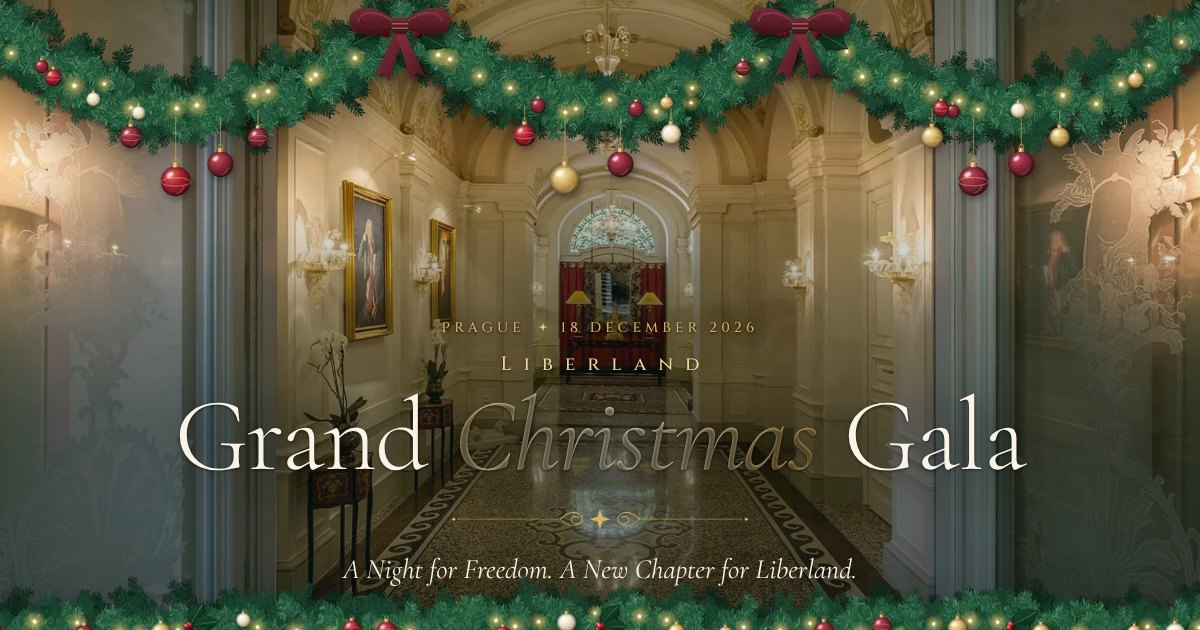
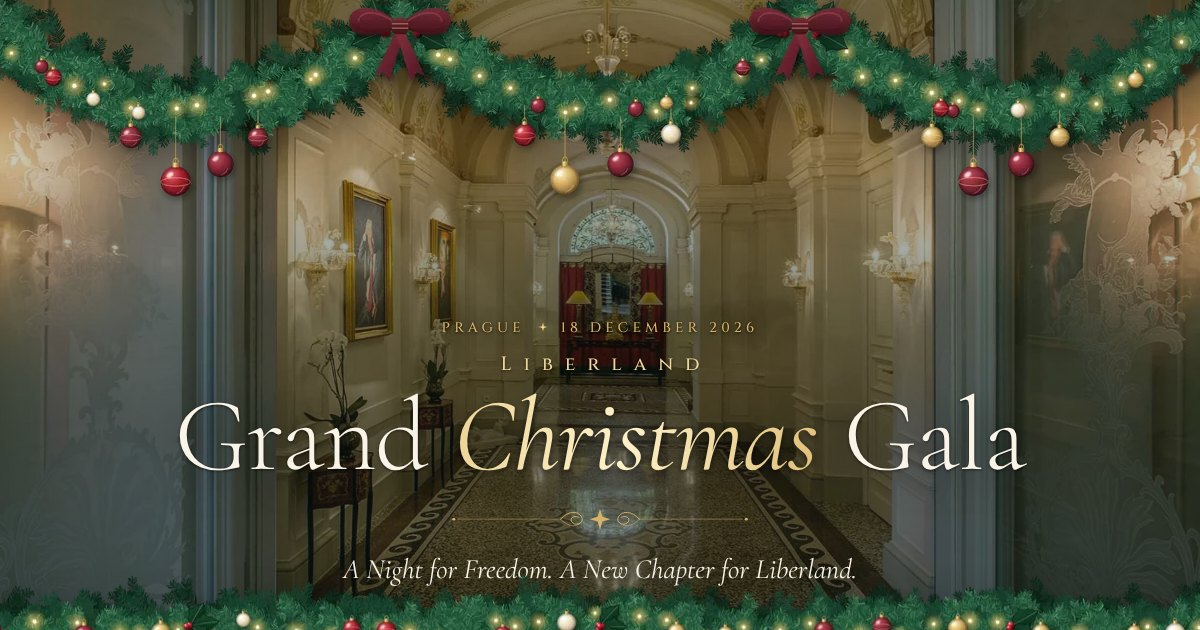
Gala hero: darker veil so the text reads clearly
- Overall 30% evergreen veil and stronger shading behind the title
- "Christmas" keeps its gold: drop-shadow filter instead of a text-shadow
  that was painting over the gradient-clipped letters; brighter gold stops
- Phone: hero text starts below the hanging baubles

Claude-Session: https://claude.ai/code/session_01VRJ32JBGxtXs7n2jmrhcDJ

Changed region(s): [[0.0, 0.1508, 0.8325, 0.5127], [0.8633, 0.1508, 1.0, 0.4825], [0.37, 0.6333, 0.6783, 0.754]]

diff --git a/christmas-gala/src/styles/gala.css b/christmas-gala/src/styles/gala.css
@@ -160,9 +160,10 @@ p { margin: 0; }
   position: absolute; inset: 0; z-index: -1; pointer-events: none;
   background:
     linear-gradient(180deg, rgba(11, 29, 23, 0.55) 0%, rgba(11, 29, 23, 0) 26%),
-    linear-gradient(0deg, rgba(11, 29, 23, 0.95) 0%, rgba(11, 29, 23, 0.82) 34%, rgba(11, 29, 23, 0.45) 52%, rgba(11, 29, 23, 0.08) 68%, rgba(11, 29, 23, 0) 76%),
+    linear-gradient(0deg, rgba(11, 29, 23, 0.95) 0%, rgba(11, 29, 23, 0.86) 34%, rgba(11, 29, 23, 0.6) 52%, rgba(11, 29, 23, 0.22) 68%, rgba(11, 29, 23, 0) 80%),
     radial-gradient(120% 80% at 50% 100%, rgba(118, 43, 54, 0.35), transparent 60%),
-    radial-gradient(44% 30% at 50% 46%, rgba(11, 29, 23, 0.62), transparent 78%);
+    radial-gradient(50% 34% at 50% 46%, rgba(11, 29, 23, 0.7), transparent 78%),
+    linear-gradient(rgba(11, 29, 23, 0.3), rgba(11, 29, 23, 0.3));
 }
 .hero .hero-wreath { position: absolute; left: 50%; top: 46%; width: min(760px, 92vw); transform: translate(-50%, -50%); opacity: 0.9; }
 .hero .hero-garland { position: absolute; left: 0; right: 0; top: 54px; z-index: 1; }
@@ -179,8 +180,9 @@ p { margin: 0; }
 .hero-grand { display: block; margin-top: 14px; font: 300 clamp(58px, 9.4vw, 148px)/0.92 var(--f-display); letter-spacing: -0.015em; }
 .hero-grand em {
   font-style: italic; font-weight: 400;
-  background: linear-gradient(100deg, #e9cd8c 0%, #fff1c9 22%, #d8b36a 44%, #b8924f 60%, #f6dfa6 80%, #d8b36a 100%);
+  background: linear-gradient(100deg, #ecd294 0%, #fff1c9 22%, #e3c37f 44%, #d6b46c 60%, #f6dfa6 80%, #e3c37f 100%);
   background-size: 220% 100%; -webkit-background-clip: text; background-clip: text; color: transparent;
+  text-shadow: none; filter: drop-shadow(0 2px 3px rgba(0, 0, 0, 0.55)) drop-shadow(0 6px 24px rgba(0, 0, 0, 0.45));
   animation: shimmer 9s ease-in-out infinite;
   padding: 0 0.04em;
 }
@@ -559,7 +561,7 @@ p { margin: 0; }
 
   .hero { min-height: max(100svh, 760px); }
   .hero .hero-garland { top: 50px; }
-  .hero-inner { padding-top: 200px; padding-bottom: 56px; }
+  .hero-inner { padding-top: 250px; padding-bottom: 56px; }
   .hero-eyebrow { font-size: 12.5px; letter-spacing: 0.22em; }
   .hero-liberland { letter-spacing: 0.5em; margin-right: -0.5em; }
   .hero-grand { font-size: clamp(54px, 15.5vw, 76px); line-height: 0.95; }
@@ -567,7 +569,7 @@ p { margin: 0; }
   .hero-details { flex-direction: column; gap: 6px; font-size: 12.5px; letter-spacing: 0.1em; }
   .hero-details .star { display: none; }
   .hero-ctas { flex-direction: column; width: 100%; max-width: 360px; }
-  .hero-shade { background: linear-gradient(180deg, rgba(11, 29, 23, 0.55) 0%, rgba(11, 29, 23, 0) 22%), linear-gradient(0deg, rgba(11, 29, 23, 0.96) 0%, rgba(11, 29, 23, 0.84) 44%, rgba(11, 29, 23, 0.2) 70%, rgba(11, 29, 23, 0) 80%); }
+  .hero-shade { background: linear-gradient(180deg, rgba(11, 29, 23, 0.55) 0%, rgba(11, 29, 23, 0) 22%), linear-gradient(0deg, rgba(11, 29, 23, 0.96) 0%, rgba(11, 29, 23, 0.84) 44%, rgba(11, 29, 23, 0.2) 70%, rgba(11, 29, 23, 0) 80%), linear-gradient(rgba(11, 29, 23, 0.3), rgba(11, 29, 23, 0.3)); }
   .hero-credit { display: none; }
   .hero .ref-tag { left: 20px; right: 20px; bottom: auto; top: 262px; text-align: center; }
 
